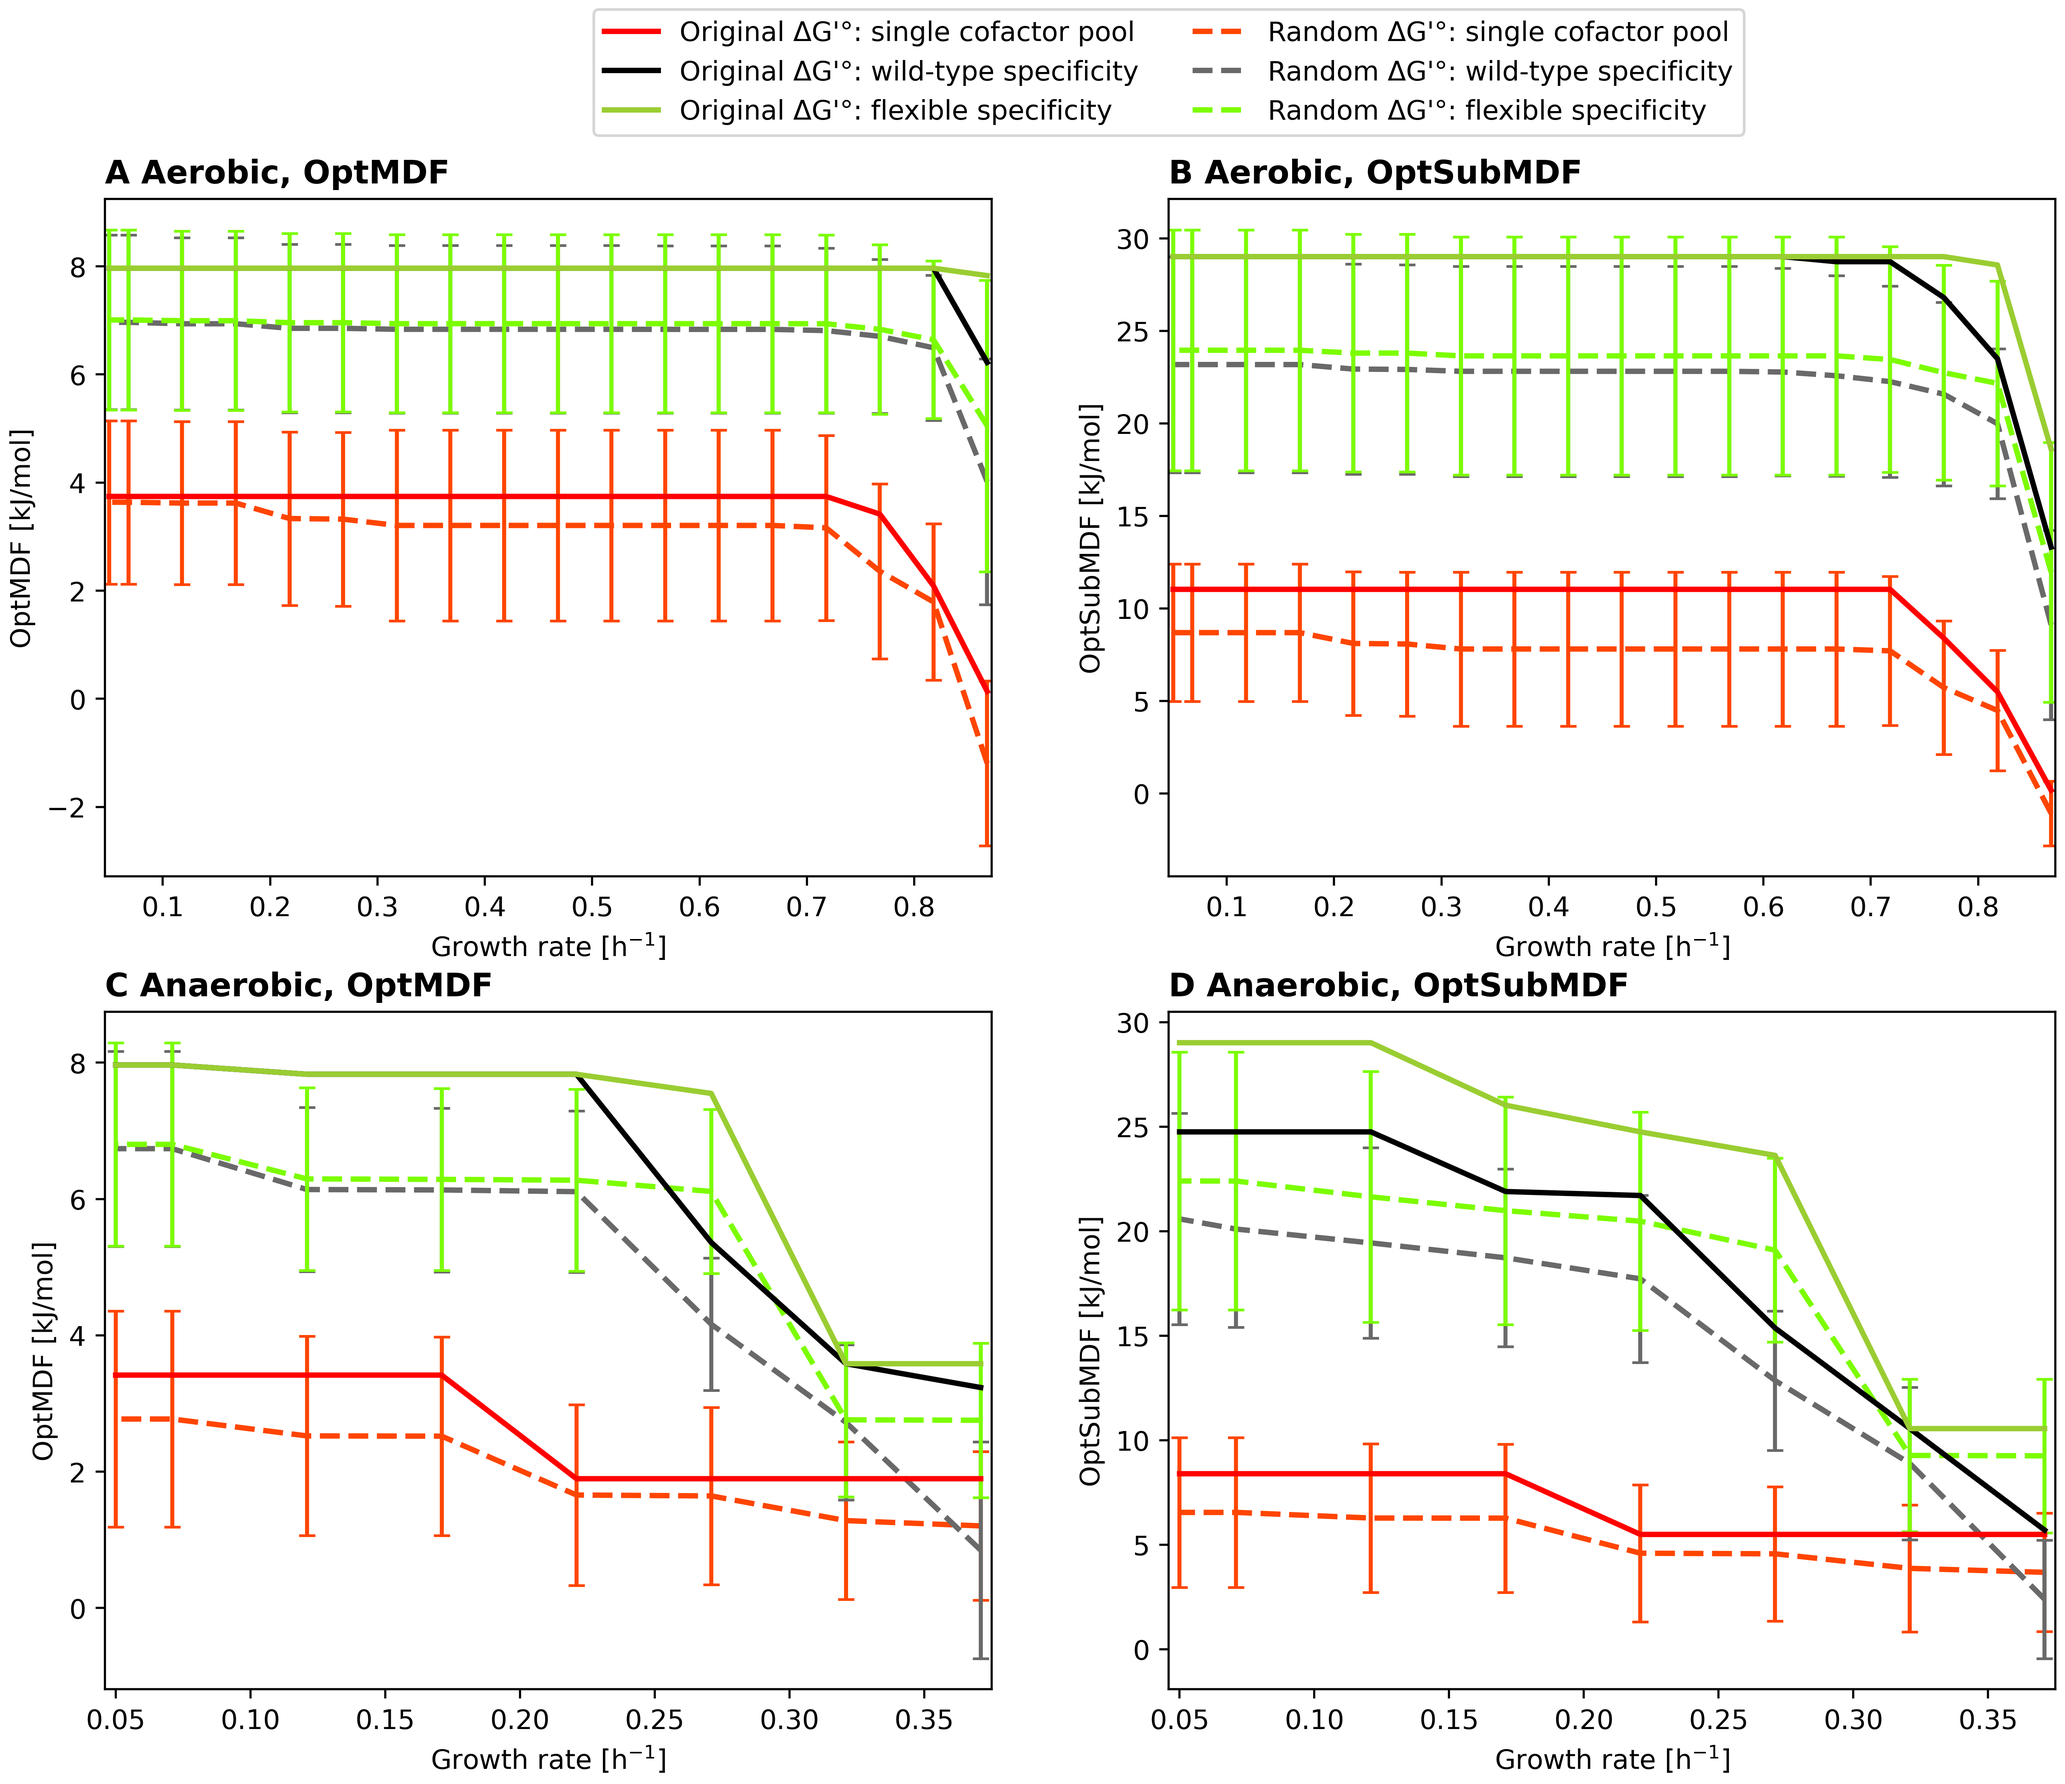
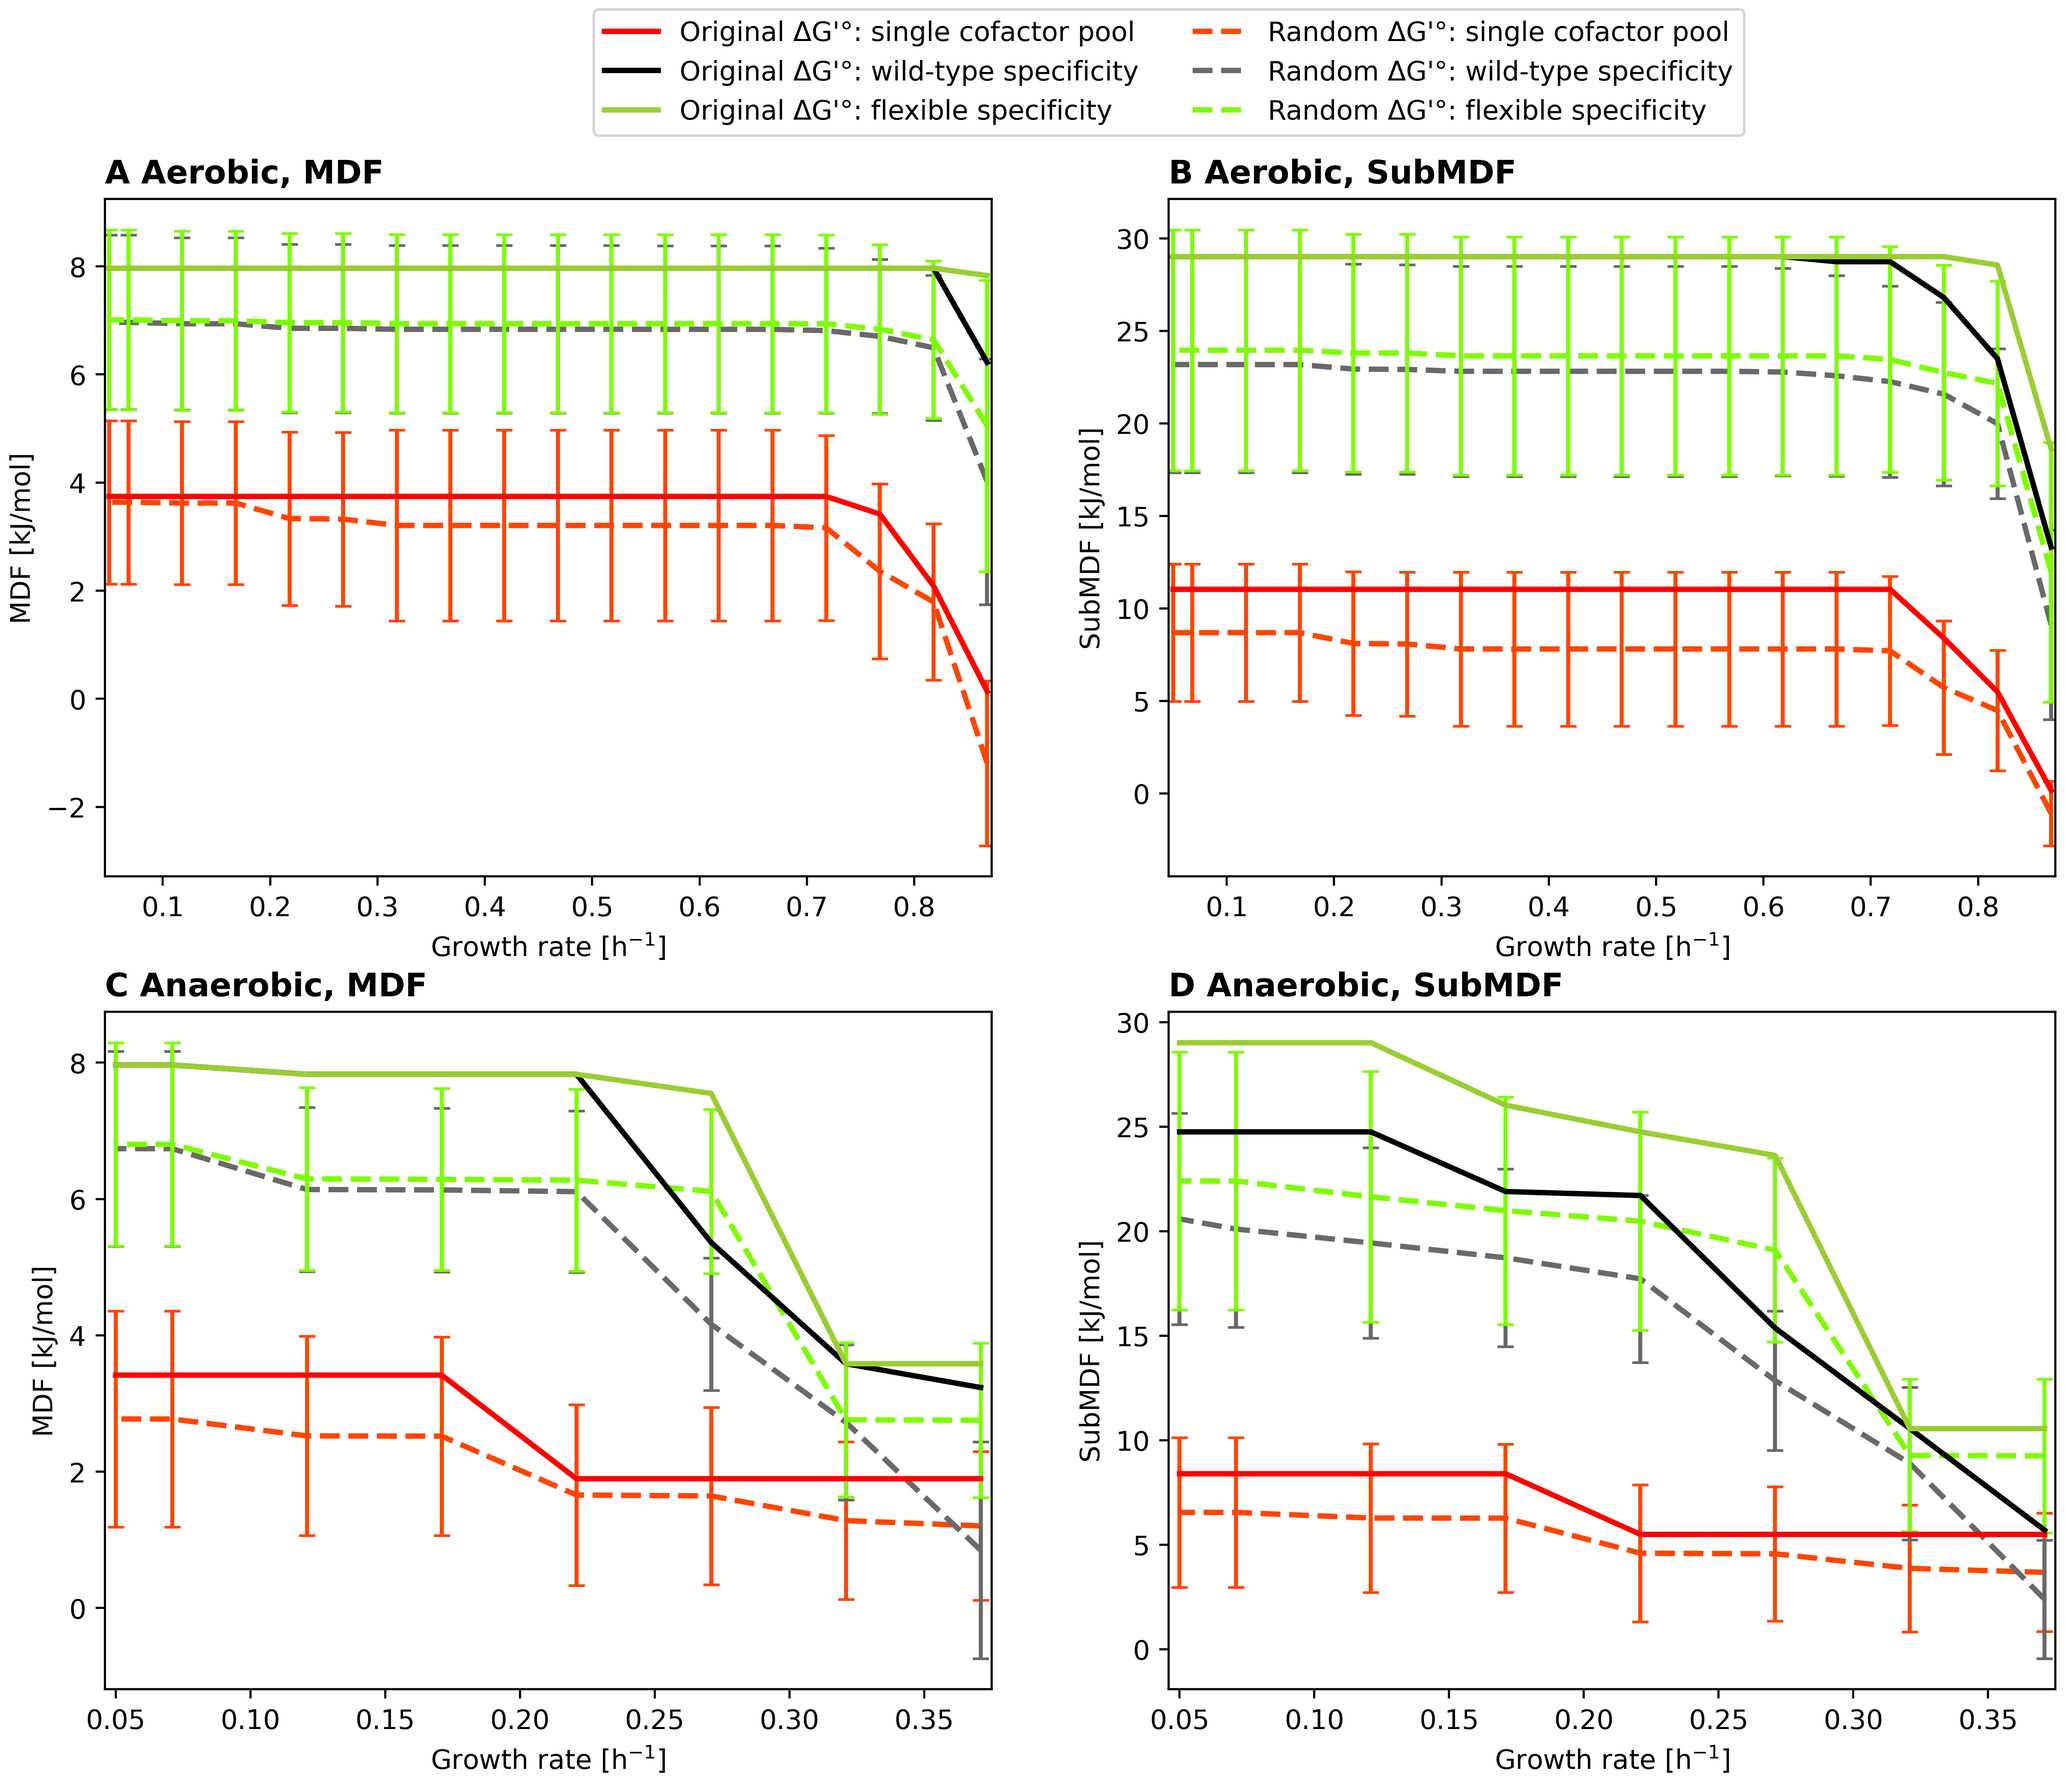
More statistics & Updated figure

diff --git a/cosa_single_swap_effect_analysis_statistics.py b/cosa_single_swap_effect_analysis_statistics.py
@@ -6,6 +6,7 @@ These tables are printed to the console.
 # IMPORTS #
 # External
 import cobra
+from statistics import mean
 # Internal
 from helper import json_load
 
@@ -40,6 +41,11 @@ for mode in ("GREATER_THAN", "LOWER_THAN"):
             id_optsubmdf_at_all =[]
             id_optmdf_at_one = []
             id_optsubmdf_at_one = []
+
+            positive_optmdf_changes = []
+            negative_optmdf_changes = []
+            positive_optsubmdf_changes = []
+            negative_optsubmdf_changes = []
             for reac_id in swap_data.keys():
                 if len(swap_data[reac_id].keys()) <= 1:
                     continue
@@ -100,8 +106,15 @@ for mode in ("GREATER_THAN", "LOWER_THAN"):
                 ####
                 max_optmdf_change = max(max_optmdf_change, max(optmdf_changes))
                 max_optsubmdf_change = max(max_optsubmdf_change, max(optsubmdf_changes))
-                min_optmdf_change = min(min_optmdf_change, max(optmdf_changes))
-                min_optsubmdf_change = min(min_optsubmdf_change, max(optsubmdf_changes))
+                min_optmdf_change = min(min_optmdf_change, min(optmdf_changes))
+                min_optsubmdf_change = min(min_optsubmdf_change, min(optsubmdf_changes))
+
+                positive_optmdf_changes += [x for x in optmdf_changes if x > 0.0]
+                negative_optmdf_changes += [x for x in optmdf_changes if x < 0.0]
+
+                positive_optsubmdf_changes += [x for x in optsubmdf_changes if x > 0.0]
+                negative_optsubmdf_changes += [x for x in optsubmdf_changes if x < 0.0]
+
                 if optmdf_at_all:
                     optmdf_at_one = True
                     optmdf_at_all = False
@@ -128,9 +141,18 @@ for mode in ("GREATER_THAN", "LOWER_THAN"):
             # print(f"OptSubMDF at all (n={len(id_optsubmdf_at_all)}): {id_optsubmdf_at_all}")
             print(f"OptMDF at >= 1 (n={len(id_optmdf_at_one)}): {id_optmdf_at_one}")
             print(f"OptSubMDF at >= 1 (n={len(id_optsubmdf_at_one)}): {id_optsubmdf_at_one}")
+            print("~")
+            print("Mean positive OptMDF change:", mean(positive_optmdf_changes))
+            print("Mean negative OptMDF change:", mean(negative_optmdf_changes))
+            print("Mean positive OptSubMDF change:", mean(positive_optsubmdf_changes))
+            print("Mean negative OptSubMDF change:", mean(negative_optsubmdf_changes))
 
             all_ids += id_optmdf_at_all + id_optsubmdf_at_all + id_optmdf_at_one + id_optsubmdf_at_one
+
         print("###########################")
+        print("#########END###############")
+        print("###########################")
+
         print(f"Min OptMDF change: {min_optmdf_change} kJ/mol")
         print(f"Max OptMDF change: {max_optmdf_change} kJ/mol")
         print(f"Min OptSubMDF change: {min_optsubmdf_change} kJ/mol")
@@ -139,6 +161,6 @@ for mode in ("GREATER_THAN", "LOWER_THAN"):
         all_ids = list(set(all_ids))
         print(f"All IDs (n={len(all_ids)}): {all_ids}")
 
-        for id_ in all_ids:
-            reaction = model.reactions.get_by_id(id_)
-            print(reaction.id, reaction.reaction)
+        # for id_ in all_ids:
+        #     reaction = model.reactions.get_by_id(id_)
+        #     print(reaction.id, reaction.reaction)

diff --git a/cosa_random_sampling_figures.py b/cosa_random_sampling_figures.py
@@ -430,21 +430,21 @@ def create_total_dG0_sampling_figure(change_range) -> None:
                 if (aerobicity == "aerobic") and (target == "OptMDF"):
                     ax_x = 0
                     ax_y = 0
-                    title = "A Aerobic, OptMDF"
+                    title = "A Aerobic, MDF"
                 elif (aerobicity == "anaerobic") and (target == "OptMDF"):
                     ax_x = 1
                     ax_y = 0
-                    title = "C Anaerobic, OptMDF"
+                    title = "C Anaerobic, MDF"
                 elif (aerobicity == "aerobic") and (target == "OptSubMDF"):
                     ax_x = 0
                     ax_y = 1
-                    title = "B Aerobic, OptSubMDF"
+                    title = "B Aerobic, SubMDF"
                 elif (aerobicity == "anaerobic") and (target == "OptSubMDF"):
                     ax_x = 1
                     ax_y = 1
-                    title = "D Anaerobic, OptSubMDF"
+                    title = "D Anaerobic, SubMDF"
 
-                ylabel = f"{target} [kJ/mol]"
+                ylabel = f"{target.replace('Opt', '')} [kJ/mol]"
 
                 table = pandas.read_csv(
                     table_path,
